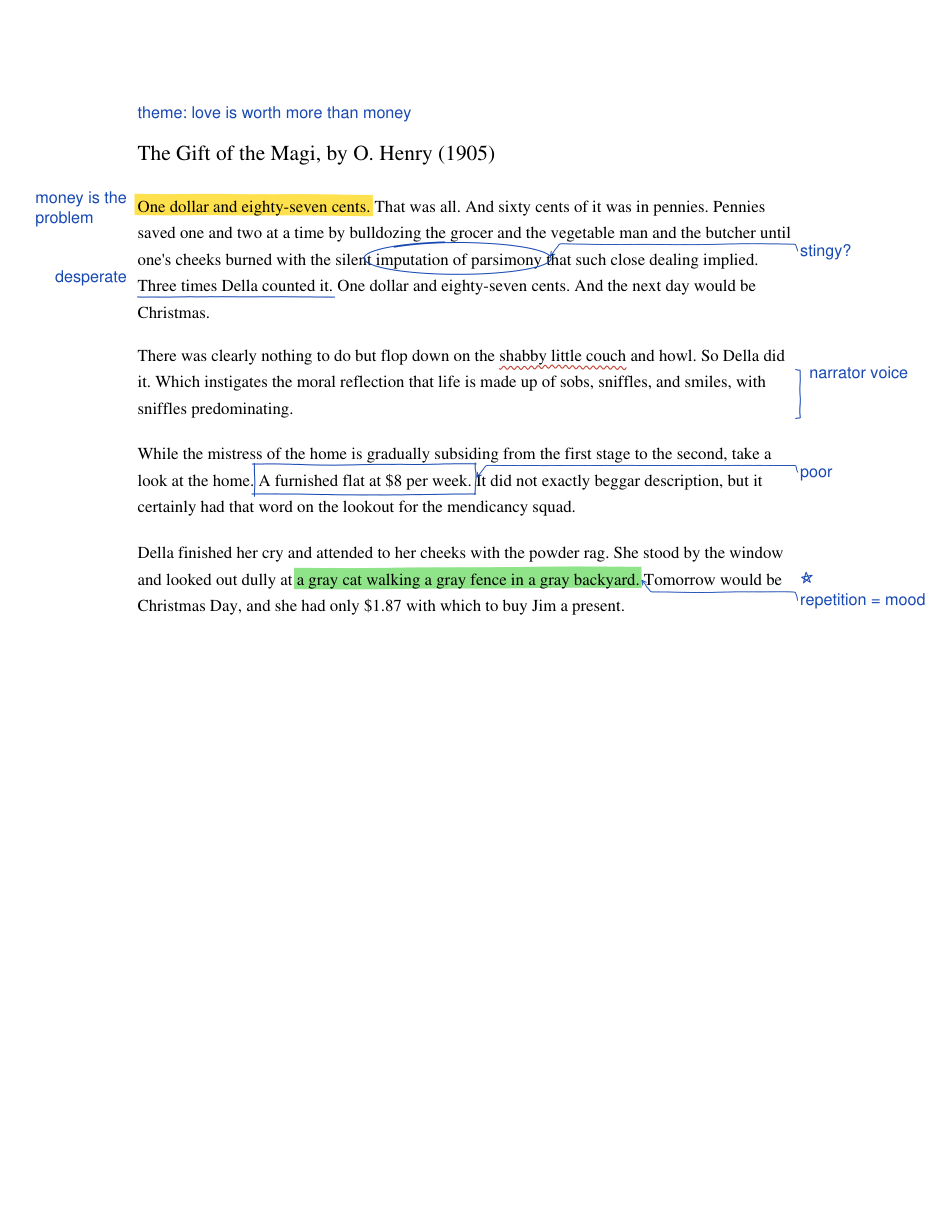
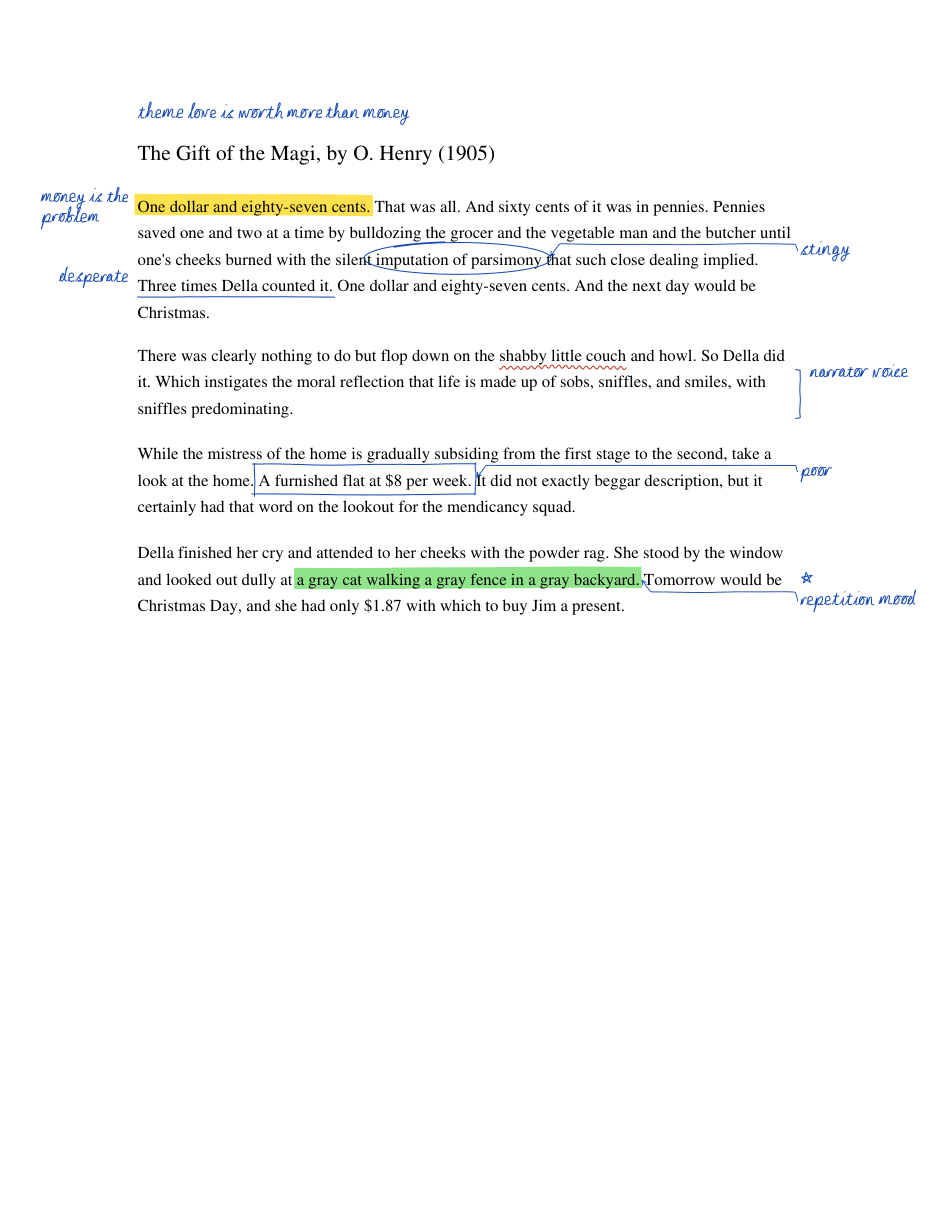
Sample image with handwritten notes
Claude-Session: https://claude.ai/code/session_017t8wW6C2c7Hwe9XugckLjp

diff --git a/README.md b/README.md
@@ -10,7 +10,7 @@ a line when they are not side by side.
 
 ![sample](docs/sample.png)
 
-*The `--font` preview of `examples/example-plan.json`. With `--engine` the notes are in your handwriting.*
+*`examples/example-plan.json`, with notes written by the Handwriting Engine (here from the fake test handwriting in `tests/`).*
 
 ## Quick start
 
